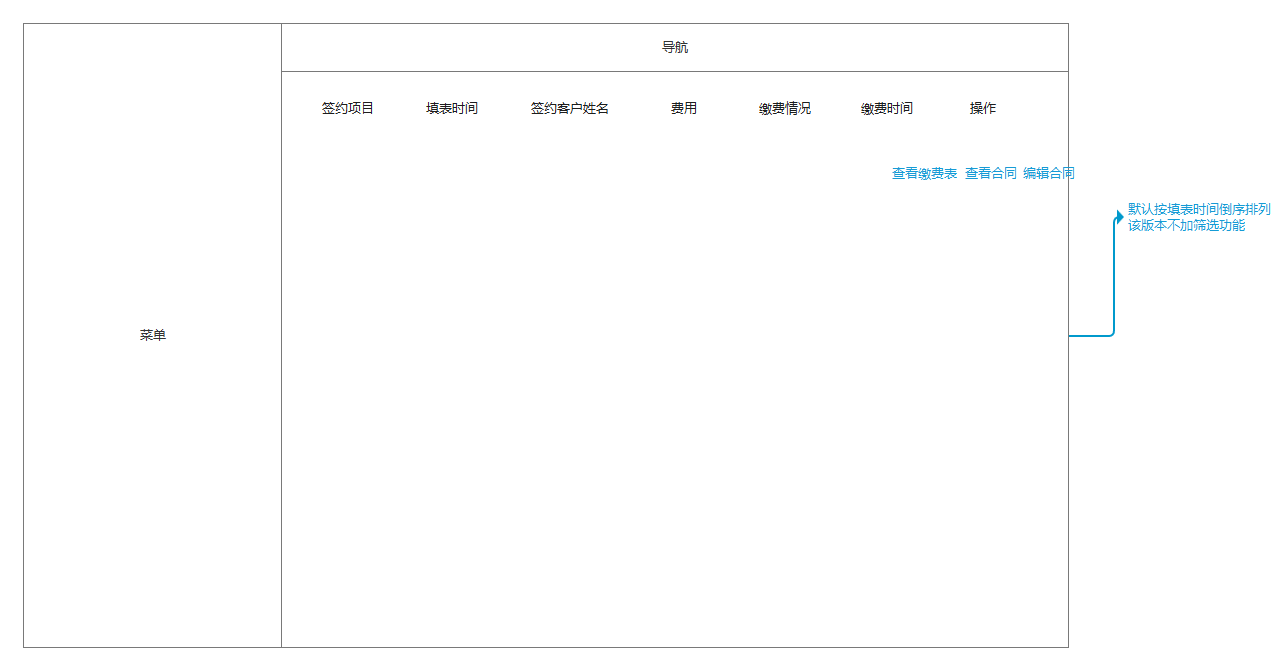
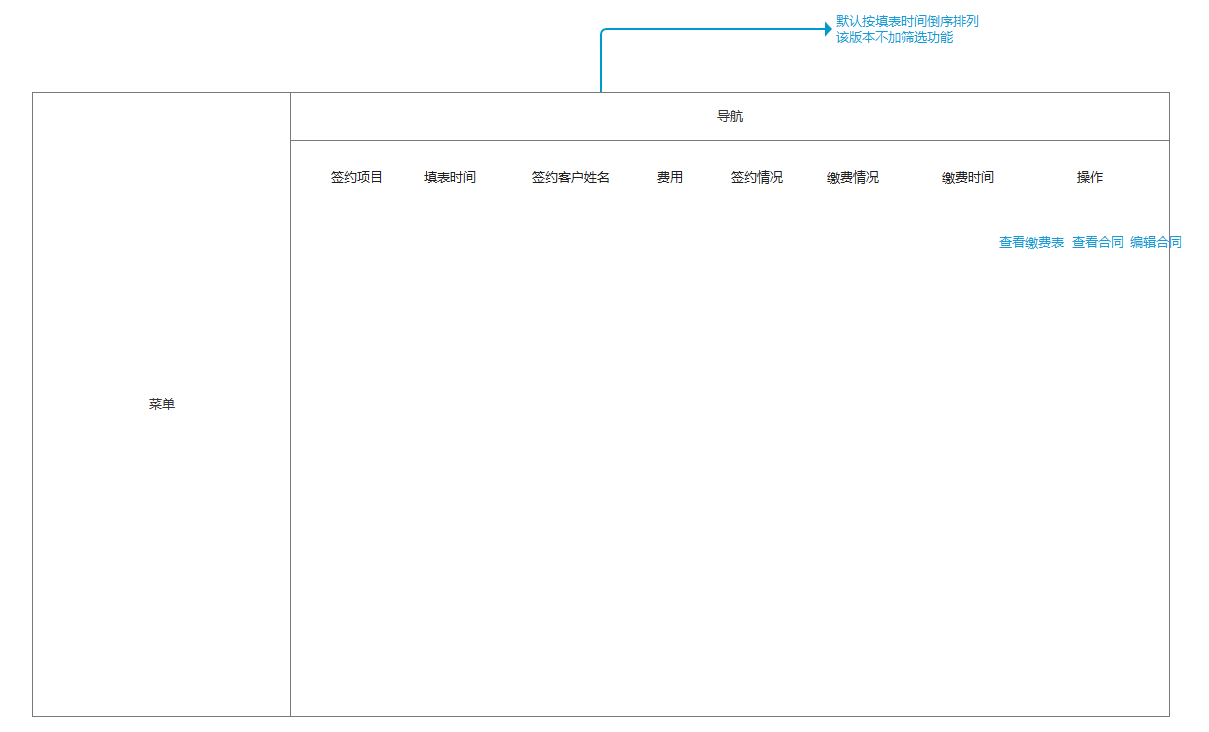
Updates he-chuang-cs-xiao-shou-duan-mo-kuai-gui-hua/guan-li-mo-kuai/he-tong-guan-li.md
Auto commit by GitBook Editor

diff --git a/he-chuang-cs-xiao-shou-duan-mo-kuai-gui-hua/guan-li-mo-kuai/he-tong-guan-li.md b/he-chuang-cs-xiao-shou-duan-mo-kuai-gui-hua/guan-li-mo-kuai/he-tong-guan-li.md
@@ -1,3 +1,7 @@
 ![](/assets/合同管理.png)
 
-- 销售填写合同之后
+- 销售填写合同之后，会展示在合同管理里面。
+- 签约项目只有合同的五种项目。
+- 签约情况有三种：1、状态改变为已签约，显示确认已签约，2、后期用户退款或者未付款，显示最终未签约，3、付款确认中，显示确认中。
+- 缴费情况有两种情况：1、销售未确认付全款之前，显示待确认，2、销售已确认付全款，显示已付款。
+- 查看缴费表，会在用户
